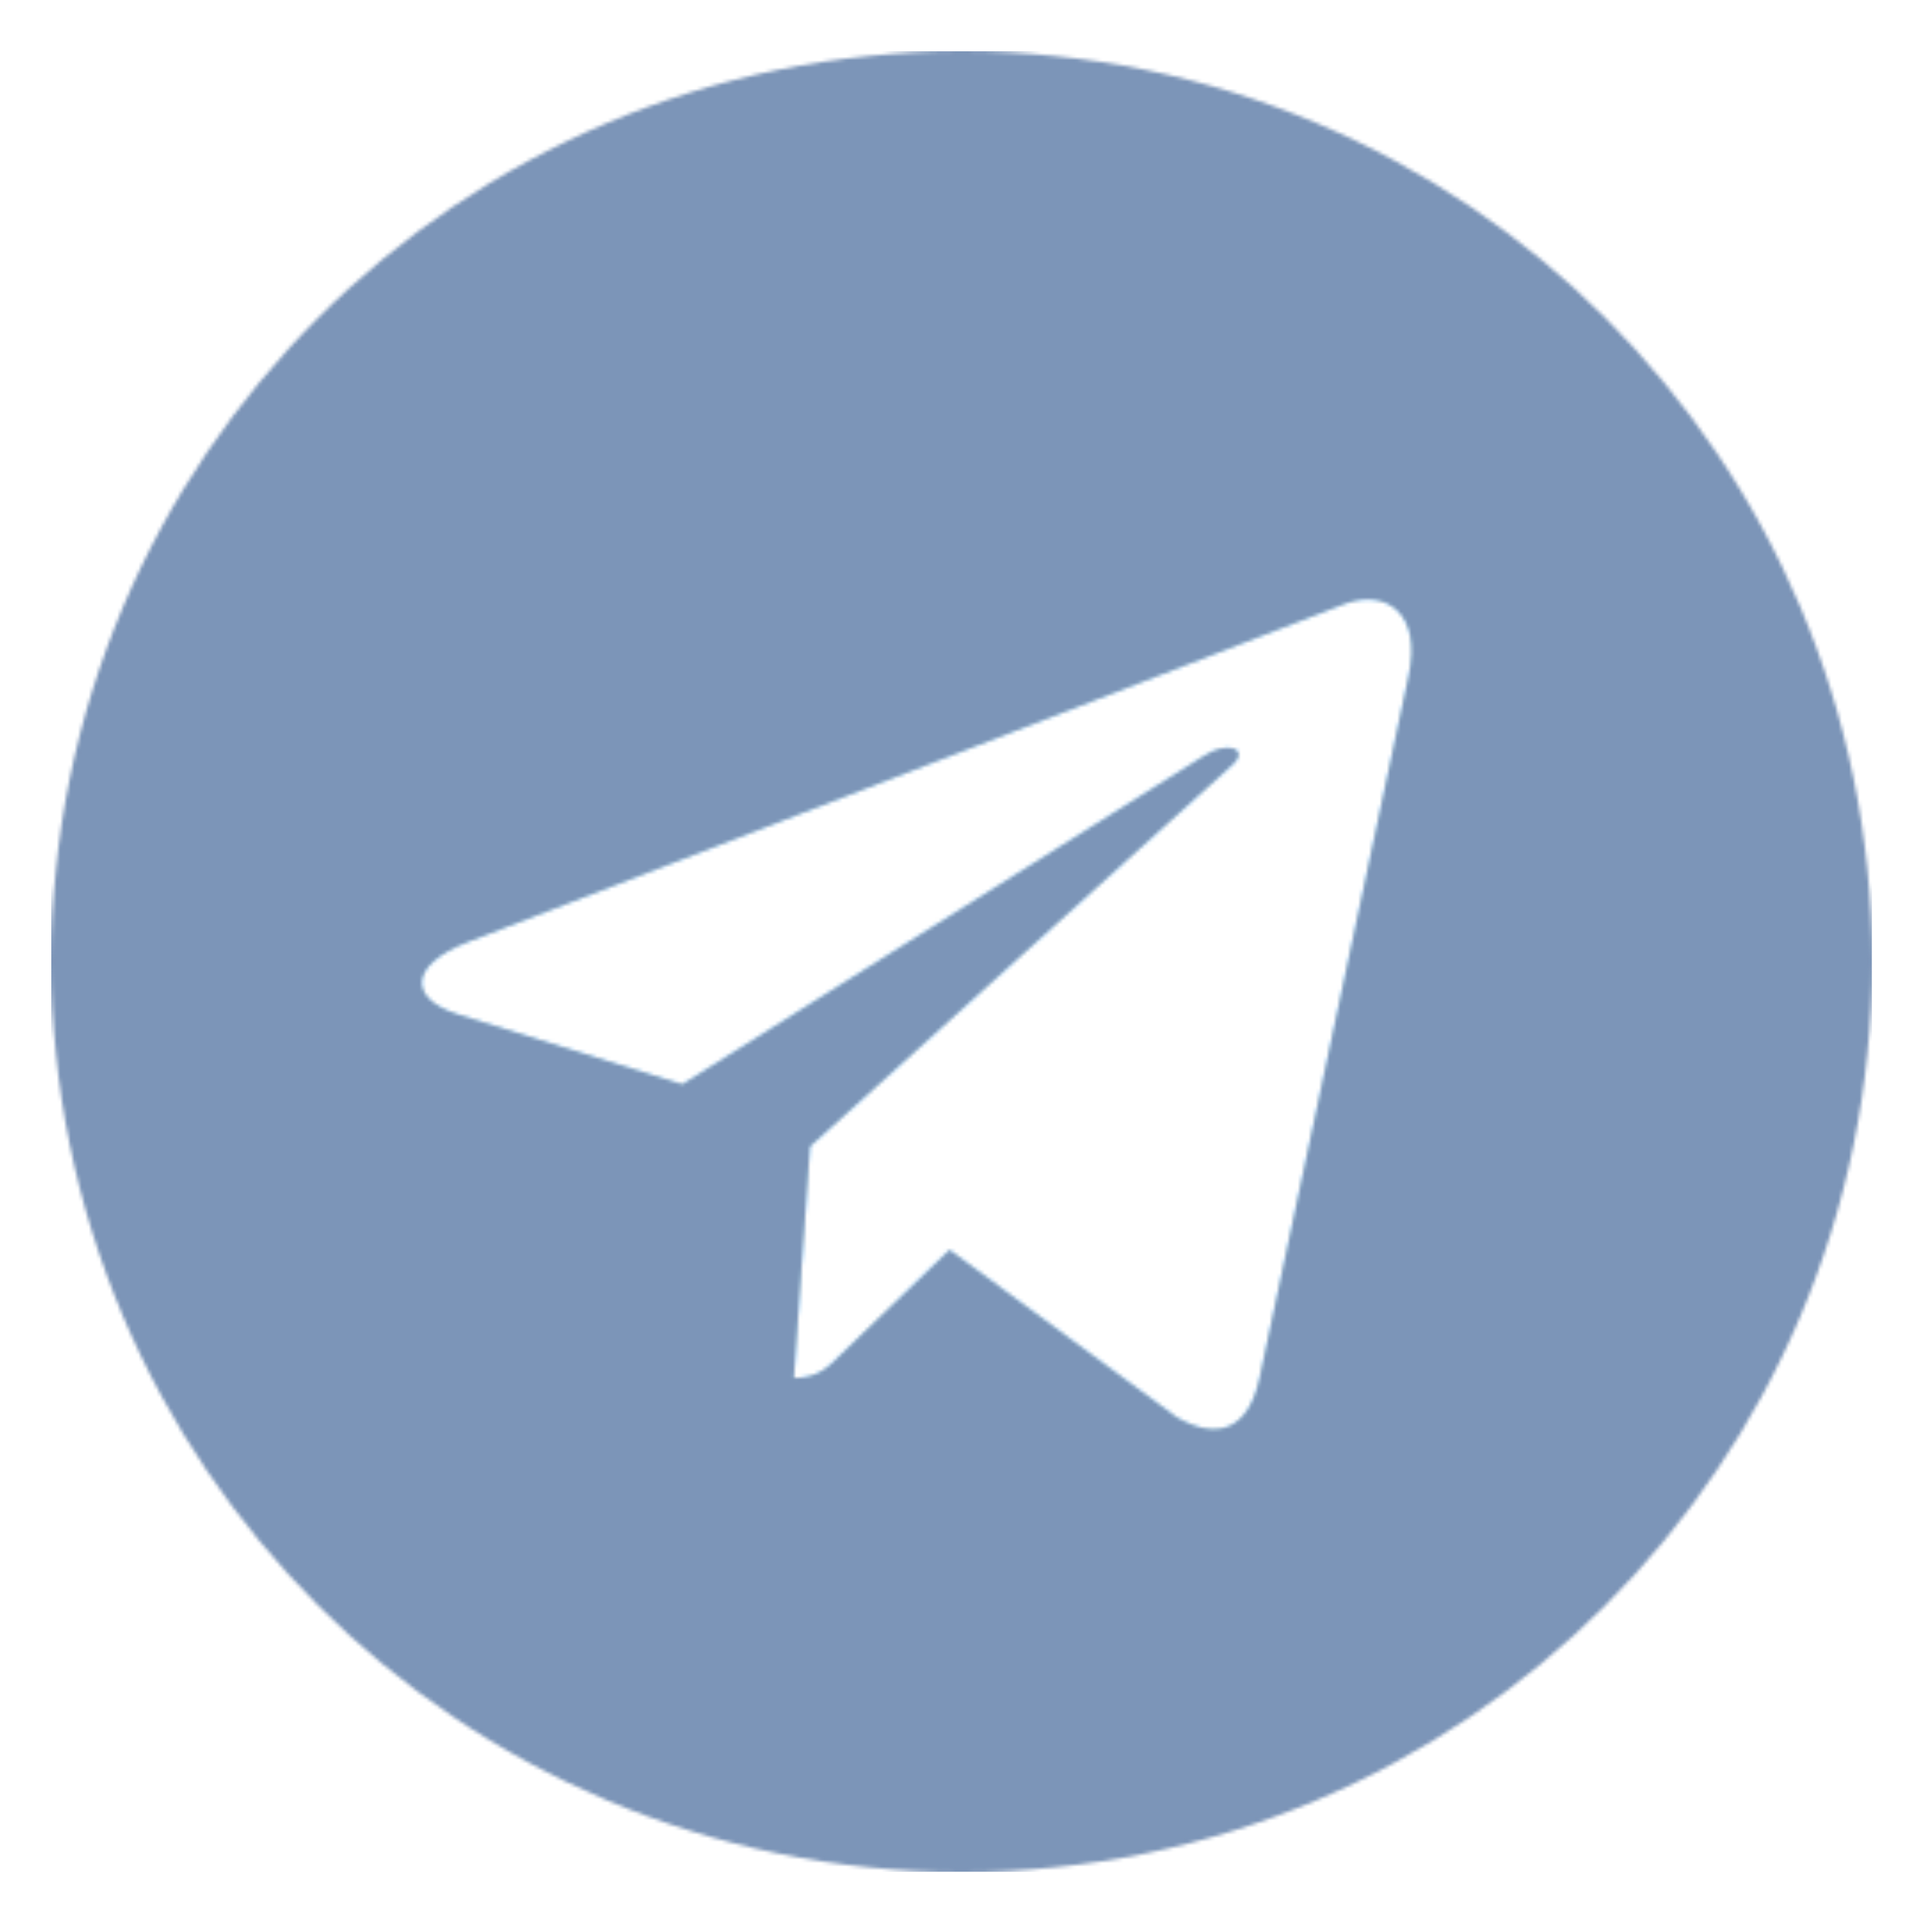
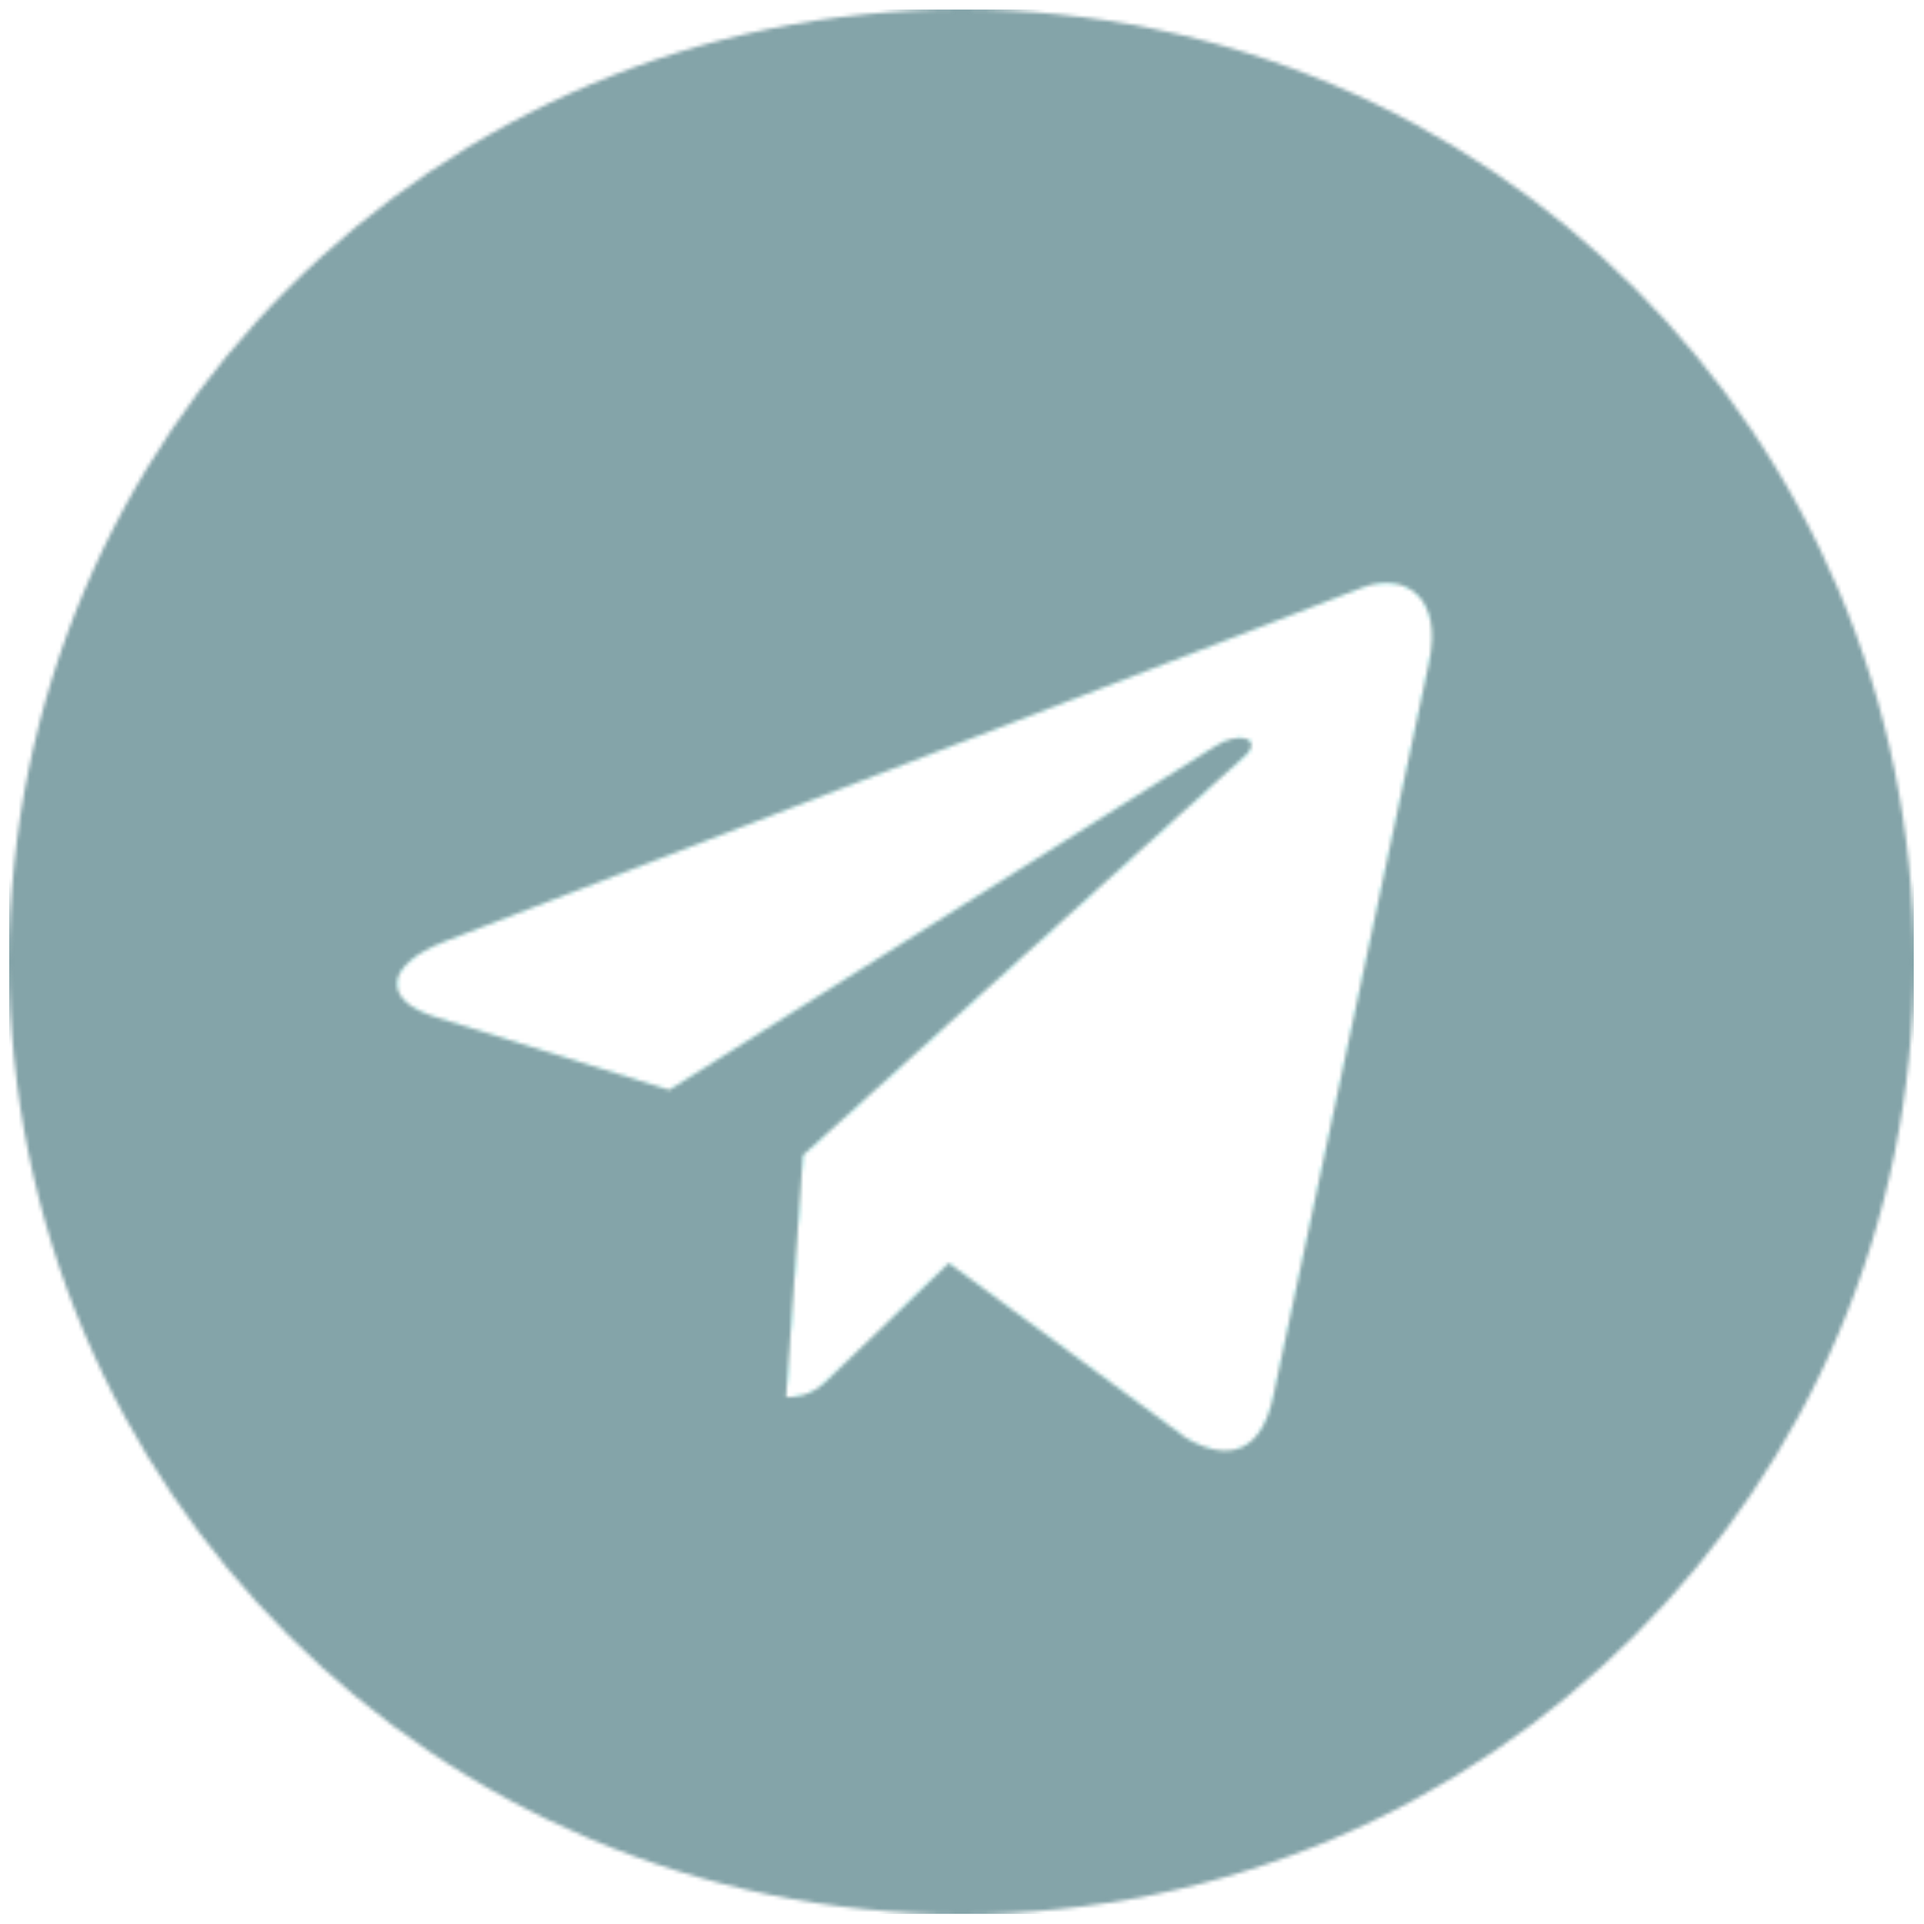
refazendo o cover, css e html

diff --git a/src/styles/cover.css b/src/styles/cover.css
@@ -1,112 +1,42 @@
 .cover-container {
     display: flex;
-    justify-content: center;
-    align-items: center;
+    justify-content: flex-start;
+    align-items: flex-end;
+    height: 100vh;
+    position: relative;
 }
 
-.container {
-    display: flex;
-    flex-direction: column;
-    height: 80vh;
-    position: relative;
+.bg-img {
+    position: absolute;
+    top: 0;
+    left: 0;
+    width: 100%;
+    height: 100%;
+    object-fit: cover;
+    z-index: -1;
+}
+
+.div-cover > div {
+    color: var(--bg-white);
+    margin-bottom: 10%;
+    margin-left: 11%;
     width: 100%;
 }
 
-.blue-line {
-    background-color: var(--bg-blue);
-    height: 35px;
+.div-cover-p1 {
+    font-size: 1rem;
 }
 
-.div1 {
-    display: flex;
-    justify-content: flex-start;
-    align-items: center;
-    background-color: var(--bg-deep-blue);
-    color: var(--text-base-light);
-    flex: 1.4;
-}
-
-.div1 > div {
-    margin-left: 17.5%;
-
-}
-
-.div1-p1 {
-    font-size: 0.9rem;
-}
-
-.div1 > div > h1 {
-    font-size: 4rem;
+.div-cover > div > h1 {
+    font-size: 6rem;
     margin: 10px 0 50px 0;
     line-height: 1;
 }
 
-.div1-p2 {
+.div-cover-p2 {
     font-size: 1.3rem;
 }
 
-.div1-p2 > span {
-    color: var(--bg-orange);
+.div-cover-p2 > span {
     font-weight: bolder;
-}
-
-.div2 {
-    display: flex;
-    justify-content: flex-start;
-    align-items: center;
-    flex: 1;
-}
-
-.nav-cover {
-    margin-left: 17.5%;
-}
-
-.nav-cover > li {
-    margin-top: 5px;
-    font-size: 0.9rem;
-    color: var(--text-base-grey);
-    margin-left: 23px;
-}
-
-.nav-cover > li::marker {
-    color: var(--bg-orange);
-    font-size: 1.5em;
-}
-
-.nav-cover > button {
-    display: flex;
-    justify-content: center;
-    align-items: center;
-    background-color: var(--bg-white);
-    color: var(--bg-orange);
-    font-size: 1.3rem;
-    margin-top: 50px;
-    border: none;
-    border-bottom: 1px solid var(--bg-orange);
-    cursor: pointer;
-}
-
-.nav-cover > button:hover {
-    opacity: 0.5;
-    transition: opacity 1s;
-}
-
-.arrow-img {
-    height: 17px;
-    margin-left: 10px;
-}
-
-.div3 {
-    position: absolute;
-    width: 40%;
-    max-width: 400px;
-    aspect-ratio: 4 / 3;
-    top: 57%;
-    left: 59%;
-    transform: translate(-50%, -50%);
-    z-index: 1;
-}
-
-.div3 > img{
-    width: 650px;
 }

diff --git a/index.html b/index.html
@@ -24,8 +24,8 @@
     <nav class="nav-container">
         <div>
             <div class="title-container">
-                <img class="img-logo" src="./src/assets/images/wings.png" alt="">
-                <span>Horizon</span>
+                <img class="img-logo" src="./src/assets/images/wings2.png" alt="">
+                <span class="nav-span">Horizon</span>
             </div>
             <ul class="nav-links">
                 <li><a class="nav-link" href="#">Home</a></li>
@@ -40,26 +40,13 @@
 
     <!-------------------------------- Cover Section -------------------------------->
     <section class="cover-container">
-        <div class="container">
-            <div class="blue-line"></div>
-            <div class="div1">
-                <div>
-                    <p class="div1-p1">Traveling is really that great, right? So...</p>
-                    <h1>Where do <br> you want to go?</h1>
-                    <p class="div1-p2">With <span>Horizon Finance</span>, everything is possible!</p>
-                </div>
+        <img class="bg-img" src="./src/assets/images/bg19.jpg" alt="cover background">
+        <div class="div-cover">
+            <div>
+                <p class="div-cover-p1">Traveling is really that great, right? So...</p>
+                <h1>Where do <br> you want to go?</h1>
+                <p class="div-cover-p2">With <span>Horizon Finance</span>, everything is possible!</p>
             </div>
-            <div class="div2">
-                <ul class="nav-cover">
-                    <li>Lorem Ipsum is simply dummy text of the printing.</li>
-                    <li>The standard chunk of Lorem Ipsum used since the 1500s is reproduced.</li>
-                    <li>All the Lorem Ipsum generators on the Internet tend to repeat.</li>
-                    <li>It is a long established fact that a reader will be distracted.</li>
-                    <li>Lorem Ipsum is simply dummy text of the printing.</li>
-                    <button>Learn More<img class="arrow-img" src="./src/assets/images/arrow.png" alt=""></button>
-                </ul>
-            </div>
-            <div class="div3"><img src="./src/assets/images/img-cover.png" alt=""></div>
         </div>
     </section>
 

diff --git a/src/styles/navbar.css b/src/styles/navbar.css
@@ -3,8 +3,14 @@ nav {
     justify-content: center;
     align-items: center;
     background-color: var(--bg-white);
-    color: var(--text-base-dark);
+    color: var(--text-base-light);
     width: 100%;
+    background-color: transparent;
+    background-color: rgba(1, 50, 90, 0.26);
+    position: absolute;
+    top: 0;
+    width: 100%;
+    z-index: 10;
 }
 
 .sticky-nav {
@@ -30,12 +36,15 @@ nav > div {
 .img-logo {
     width: 30px;
     margin-right: 5px;
-    opacity: 70%;
 }
 
 .title-container > span {
     font-size: 1.9rem;
     font-weight: bolder;
+}
+
+.sticky-span {
+    color: var(--text-base-dark);
 }
 
 .nav-links {
@@ -46,11 +55,15 @@ nav > div {
     gap: 30px;
 }
 
-.nav-links a {
+.nav-link {
     text-decoration: none;
-    color: var(--text-base-dark);
+    color: var(--text-base-light);
     font-size: 1.1rem;
     transition: opacity 0.3s ease;
+}
+
+.sticky-nav-links {
+    color: var(--text-base-dark);
 }
 
 .nav-links > button {

diff --git a/src/index.js b/src/index.js
@@ -1,6 +1,8 @@
 const navbar = document.querySelector('.nav-container');
 const nav_links = document.querySelector('.nav-links');
+const nav_link = document.querySelectorAll('.nav-link');
 const cover = document.querySelector('.cover-container');
+const nav_span = document.querySelector('.nav-span');
 
 const sections = document.querySelectorAll('.section');
 
@@ -26,9 +28,17 @@ const stickyNav = function (entries) {
 
     if (!entry.isIntersecting) {
         navbar.classList.add('sticky-nav');
+        nav_span.classList.add('sticky-span');
+        nav_link.forEach(link => {
+            link.classList.add('sticky-nav-links');
+        });
         cover.style.paddingTop = `${navHeight}px`;
     } else {
         navbar.classList.remove('sticky-nav');
+        nav_span.classList.remove('sticky-span');
+        nav_link.forEach(link => {
+            link.classList.remove('sticky-nav-links');
+        });
         cover.style.paddingTop = `0`;
     }
 };

diff --git a/src/styles/vars.css b/src/styles/vars.css
@@ -6,7 +6,7 @@
 
     /* Bg Colors */
     --bg-deep-blue: #1d2837;
-    --bg-light-blue: #7e98bd;
+    --bg-light-blue: #90b2b8;
     --bg-blue: #283f5d;
     --bg-white: #ffffff;
     --bg-grey: #efefef;

diff --git a/src/styles/testemonials.css b/src/styles/testemonials.css
@@ -93,7 +93,7 @@
 }
 
 .testemonials-card-name {
-    background-color: var(--bg-deep-blue);
+    background-color: var(--bg-light-blue);
     color: var(--bg-white);
     padding: 20px;
 }
